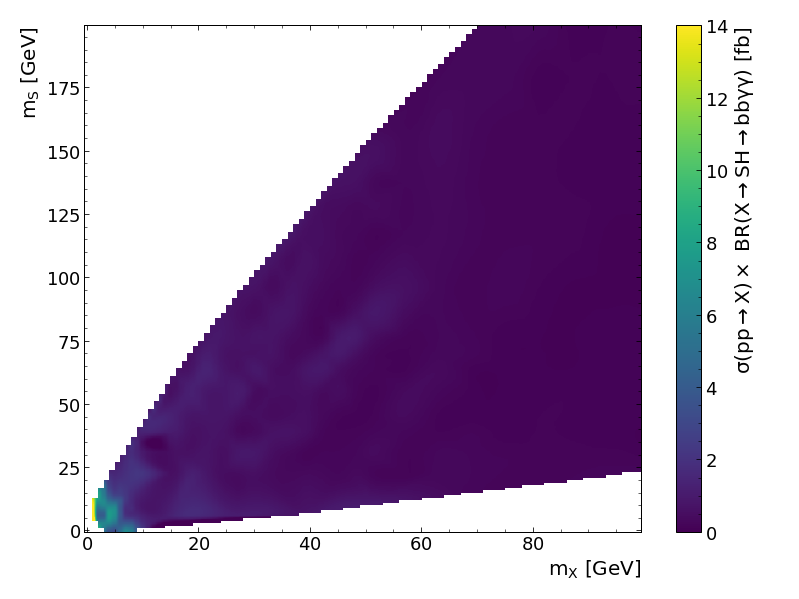
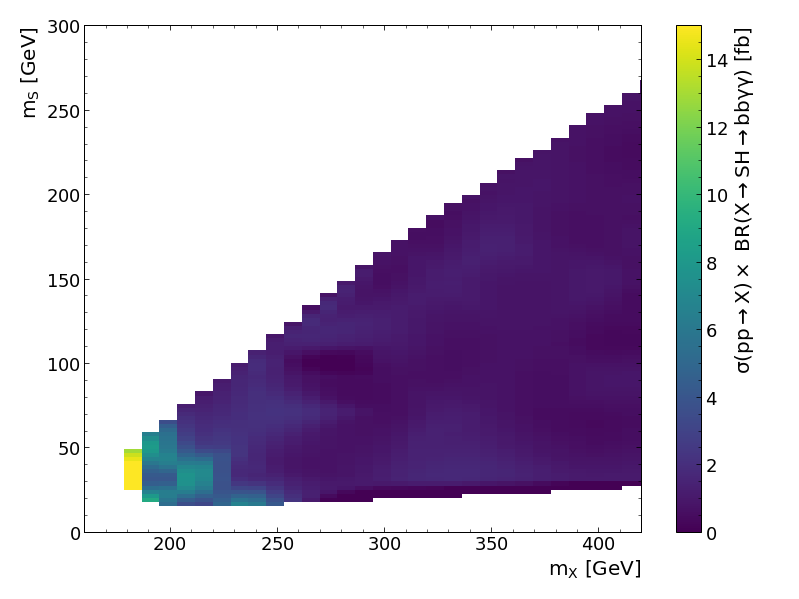
AtlasLimitModified.py gives correct plot, however, need further verification to be certain

diff --git a/AtlasLimitModified.py b/AtlasLimitModified.py
@@ -12,10 +12,10 @@ import pathlib
 import glob
 
 limits = pd.read_json('Atlas2023Limits.json')
-print(limits) 
-print(limits["X1000_S110"])
-print("====================")
-print((limits["X1000_S110"])[2])
+#print(limits) 
+#print(limits["X1000_S110"])
+#print("====================")
+#print((limits["X1000_S110"])[2])
 
 
 ## FIRST ELEMENT ADDED TWICE, REMEMBER
@@ -36,79 +36,53 @@ for element in limits:
     limit_exp.append((limits[element])[2])
     limit_obs.append((limits[element])[3])
 
+print(mx[0:10])
+print("====================")
+print(ms[0:10])
+print("====================")
+print(limit_exp[0:10])
+print("====================")
+print(limit_obs[0:10])
+
+"""
 mx = np.array(mx)
 ms = np.array(ms)
 limit_exp = np.array(limit_exp)
 limit_obs = np.array(limit_obs)
 
-#x_min = ms.min()
-#x_max = ms.max()
 x_min, x_max = mx.min(), mx.max()
 y_min, y_max = ms.min(), ms.max()
 grid_x, grid_y = np.mgrid[x_min:x_max:100j, y_min:y_max:200j]
+
 ## Interpolate the limits on the grid
-#    if args.observed:
 grid_limit = griddata((mx, ms), limit_obs, (grid_x, grid_y), method='cubic')
-#    else:
-#        grid_limit = griddata(limits[['x', 'y']], limits['limit_exp_0'], (grid_x, grid_y), method='cubic')
 
 
 ampl.use_atlas_style() # activate ATLAS style    
 fig, ax = plt.subplots()
+
 # transpose the data from mgrid (.T)
-#im = ax.imshow(grid_limit.T, extent=(x_min,x_max,y_min,y_max), origin='lower', aspect='auto', cmap='viridis')#args.cmap, 
-plotxmin, plotxmax = 150, 420
-plotymin, plotymax = 0, 300
-#im = ax.imshow(grid_limit.T, extent=(plotxmin, plotxmax, plotymin, plotymax), origin='lower', aspect='auto', cmap='viridis',#args.cmap, 
-#im = ax.imshow(grid_limit.T, extent=(x_min, x_max, y_min, y_max), origin='lower', aspect='auto', cmap='viridis',#args.cmap, 
-im = ax.imshow(grid_limit.T, origin='lower', aspect='auto', cmap='viridis',#args.cmap, 
-               #norm=LogNorm(), if args.log else None, 
-               vmin=0,#args.z_lim[0], if args.z_lim else None, 
-               vmax=14)#args.z_lim[1]) if args.z_lim else None)
+im = ax.imshow(grid_limit.T, origin='lower', aspect='auto', cmap='viridis', 
+vmin=0, vmax=15)
+
 cbar = fig.colorbar(im, ax=ax)
 
-    ## Remove values outside the grid                                                                                                         
-#    if args.x_lim:
-#        limits = limits[limits['x'] > args.x_lim[0]]
-#        limits = limits[limits['x'] < args.x_lim[1]]
-
-#    if args.y_lim:
-#        limits = limits[limits['y'] > args.y_lim[0]]
-#        limits = limits[limits['y'] < args.y_lim[1]]
+plotxmin, plotxmax = 160, 420
+plotymin, plotymax = 0, 300
+ax.set_xlim(plotxmin, plotxmax)
+ax.set_ylim(plotymin, plotymax)
 
 
-#    print(limits)
-
-    ## print the limit on the plot
-#    if args.text:
-#        for index, row in limits.iterrows():
-
-#            if args.observed:
-#                text = ax.text(row['x'], row['y'], f"{row['limit_obs']:0.2f}",
-#                           color="black", ha="left", va="bottom")
-#            else:
-#                text = ax.text(row['x'], row['y'], f"{row['limit_exp_0']:0.2f}", 
-#                           color="black", ha="left", va="bottom")
-#            text.set_path_effects([path_effects.Stroke(linewidth=2, foreground='white'),
-#                                   path_effects.Normal()])
-
-    ## draw atlas label
-#    ampl.draw_atlas_label(0.05, 0.92, ax=ax, status='int', fontsize=20)
-#    if args.label:
-#        for i, t in enumerate(args.label):
-#            ax.text(0.05, 0.89-((i+1)*0.05), t, transform=ax.transAxes)
+# draw atlas label
+ampl.draw_atlas_label(0.05, 0.92, ax=ax, status='int', fontsize=20)
+if args.label:
+    for i, t in enumerate(args.label):
+        ax.text(0.05, 0.89-((i+1)*0.05), t, transform=ax.transAxes)
 ampl.set_ylabel("$m_S$ [GeV]", ax=ax)
 ampl.set_xlabel("$m_X$ [GeV]", ax=ax)
 ampl.set_zlabel(r'$\sigma( pp \rightarrow X)\times$ BR$ (X \rightarrow SH  \rightarrow bb \gamma \gamma)$ [fb]', ax=ax, cbar=cbar)
 
-#    if args.x_lim: ax.set_xlim(args.x_lim[0], args.x_lim[1])
-#    if args.y_lim: ax.set_ylim(args.y_lim[0], args.y_lim[1])
-
 plt.tight_layout()
 
-
-## create the dir if it does not exist
-#    pathlib.Path(args.output_dir).mkdir(parents=True, exist_ok=True)
-## save the png
 fig.savefig("AtlasMassplottTest.png", format='png')
-
+"""
